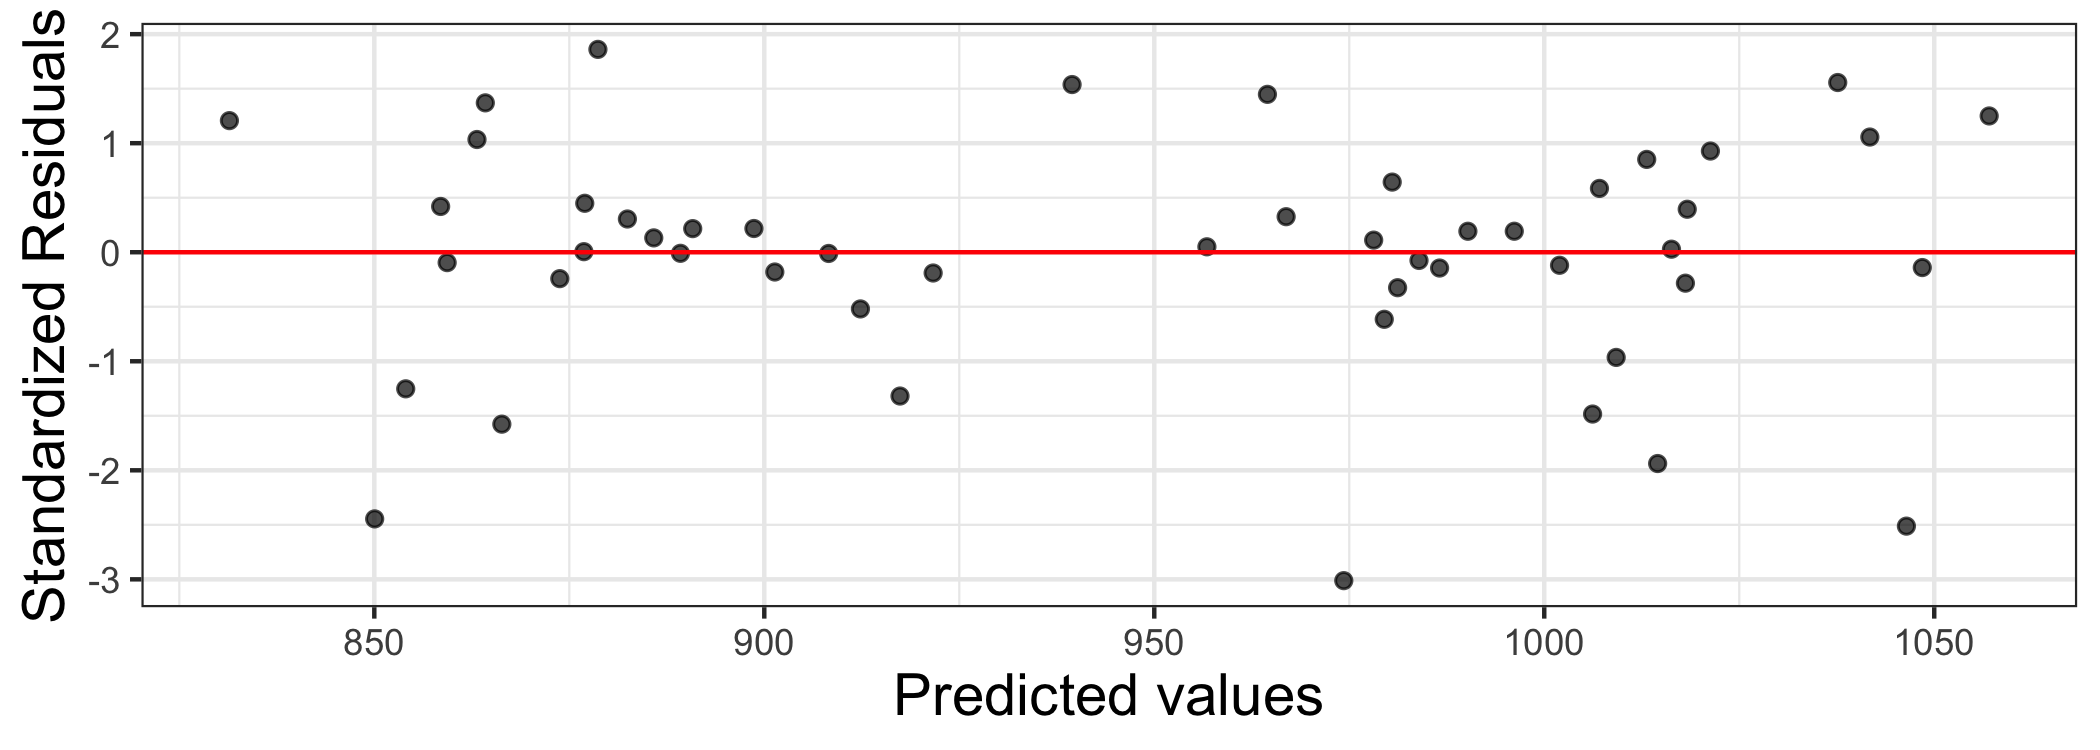
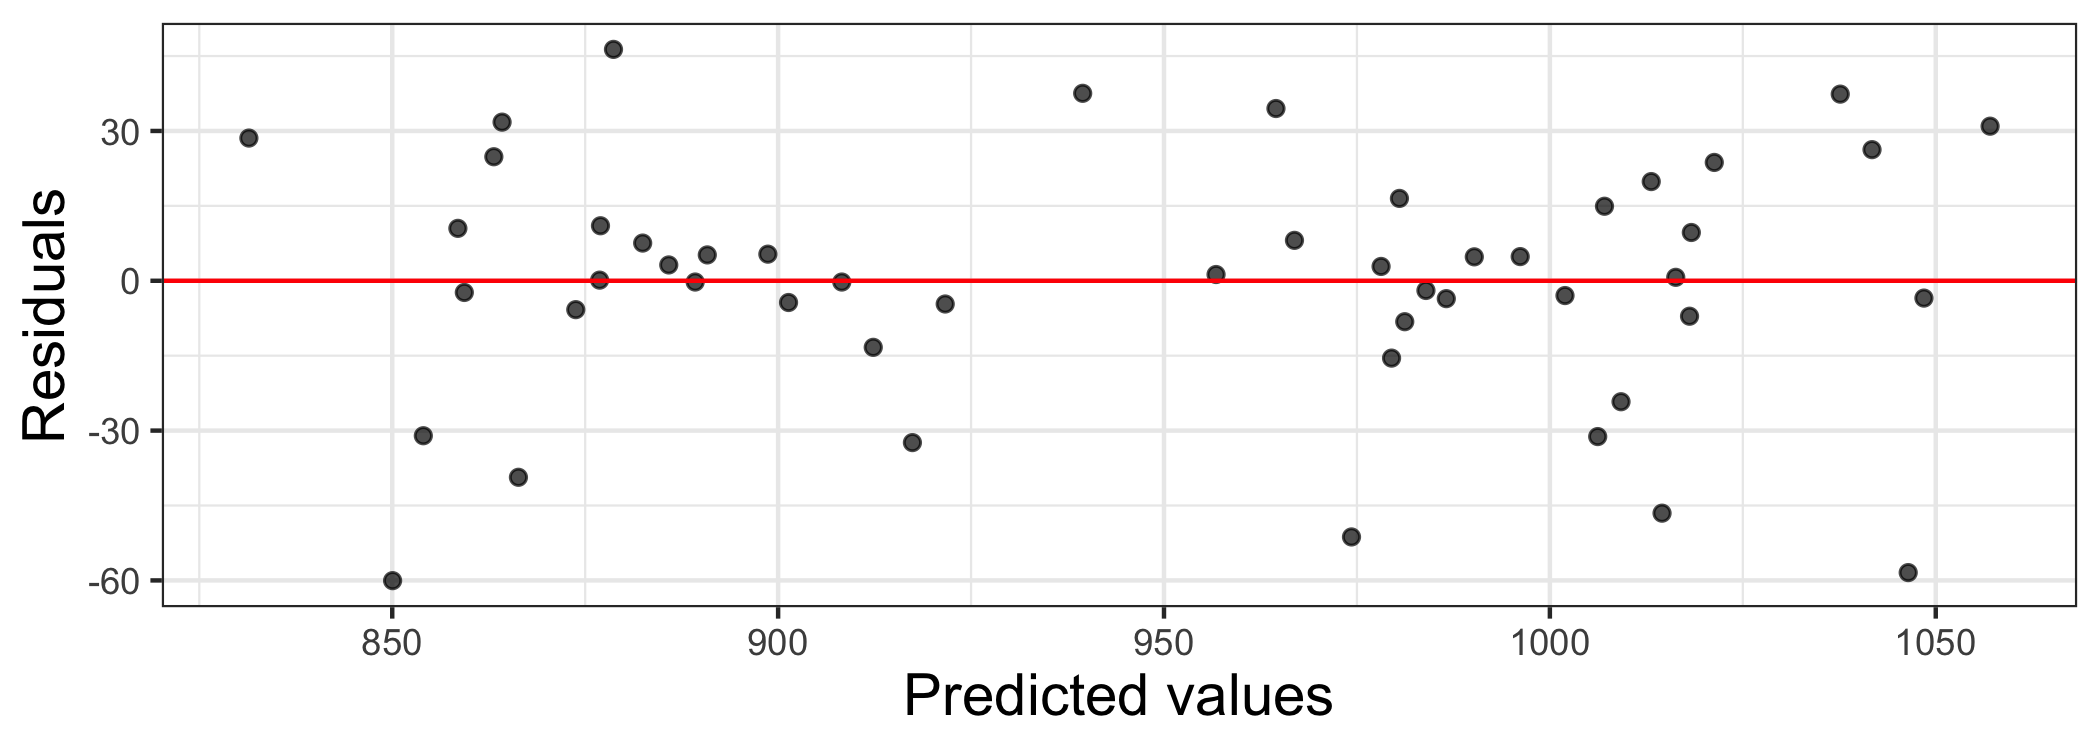
update mlr slides

diff --git a/public/slides/13-mlr-conditions.html b/public/slides/13-mlr-conditions.html
@@ -73,33 +73,31 @@ class: middle, center
 
 ## Model conditions
 
-1. .vocab[Linearity: ]There is a linear relationship between the response and **each** predictor variable
+1. .vocab[Linearity: ]There is a linear relationship between the response and predictor variables.
 
-2. .vocab[Constant Variance: ]The variability of the errors is equal for all values of the predictor variable.
+2. .vocab[Constant Variance: ]The variability about the least squares line is generally constant.
 
-3. .vocab[Normality: ]The errors follow a normal distribution.
+3. .vocab[Normality: ]The distribution of the residuals is approximately normal.
 
-4. .vocab[Independence: ]The errors are independent from each other.
-
-.alert[
-Use plots of the standardized residuals to check conditions.
-]
+4. .vocab[Independence: ]The residuals are independent from each other.
 
 ---
 
-## Standardized residuals vs. predicted values
+## Residuals vs. predicted values
 
 &lt;img src="13-mlr-conditions_files/figure-html/unnamed-chunk-6-1.png" style="display: block; margin: auto;" /&gt;
 
 ---
 
-## Checking linearity: Std. residuals vs. predicted
+## Linearity: Residuals vs. predicted
 
 &lt;img src="13-mlr-conditions_files/figure-html/unnamed-chunk-7-1.png" style="display: block; margin: auto;" /&gt;
 
 ---
 
-## Checking linearity: Std. residuals vs. each predictor
+## Linearity: Residuals vs. each predictor
+
+If there is some pattern in the plot of residuals vs. predicted values, you can look at individual plots of residuals vs. each predictor to try to identify the issue.
 
 &lt;img src="13-mlr-conditions_files/figure-html/unnamed-chunk-8-1.png" style="display: block; margin: auto;" /&gt;
 
@@ -107,11 +105,11 @@ Use plots of the standardized residuals to check conditions.
 
 ## Checking linearity 
 
-✅ The plot of standardized residuals vs. predicted shows no distinguishable pattern 
+✅ The plot of residuals vs. predicted shows no distinguishable pattern 
 
-✅ The plots of standardized residuals vs. each predictor variable show no distinguishable pattern 
+✅ The plots of residuals vs. each predictor variable are generally fine; perhaps look into `Years` more closely. 
 
-.vocab[The linearity condition is satisfied.]
+.vocab[The linearity condition is generally satisfied.] 
 
 ---
 
@@ -129,7 +127,7 @@ Use plots of the standardized residuals to check conditions.
 
 --
 
-⚠ .vocab[Normality is not satisfied]; however, `\(n&gt;30\)`, so our sample is large enough that we can relax the Normality condition and proceed.
+⚠ .vocab[Normality is not satisfied]. However, `\(n&gt;30\)`, so by the Central Limit Theorem, we can still do inference about the model parameters.
 
 ---
 
@@ -137,14 +135,16 @@ Use plots of the standardized residuals to check conditions.
 
 - We can often check the independence condition based on the context of the data and how the observations were collected.
 
-- If the data were collected in a particular order, examine a scatterplot of the standardized residuals versus order in which the data were collected. 
+- If the data were collected in a particular order, examine a scatterplot of the residuals versus order in which the data were collected. 
+
+- If there is a grouping variable lurking in the background, check the residuals based on that grouping variable.
 
 
 ---
 
 ## Checking independence
 
-Since the observations are US states, let's take a look at the standardized residuals by region. 
+Since the observations are US states, let's take a look at the residuals by region. 
 
 
 &lt;img src="13-mlr-conditions_files/figure-html/unnamed-chunk-12-1.png" style="display: block; margin: auto;" /&gt;
@@ -155,15 +155,8 @@ Since the observations are US states, let's take a look at the standardized resi
 
 ❌ The model tends to overpredict for states in the South and underpredict for states in the North Central, so the .vocab[independence condition is not satisfied].
 
-Multiple linear regression is **not** robust to violations of independence, so we need to fit a new model that includes region as a predictor to account for the systematic differences by region.
+Multiple linear regression is **not** robust to violations of independence, so before moving forward, we should try fitting a model that includes **region** to account for these differences by region. 
 
----
-
-## Next, check the model diagnostics
-
-Once you've assessed the conditions for multiple linear regression, then you can use the **model diagnostics** to detect influential points or multicollinearity.
-
-We will address model diagnostics in an upcoming lecture.
 
     </textarea>
 <style data-target="print-only">@media screen {.remark-slide-container{display:block;}.remark-slide-scaler{box-shadow:none;}}</style>

diff --git a/static/slides/13-mlr-conditions.html b/static/slides/13-mlr-conditions.html
@@ -73,33 +73,31 @@ class: middle, center
 
 ## Model conditions
 
-1. .vocab[Linearity: ]There is a linear relationship between the response and **each** predictor variable
+1. .vocab[Linearity: ]There is a linear relationship between the response and predictor variables.
 
-2. .vocab[Constant Variance: ]The variability of the errors is equal for all values of the predictor variable.
+2. .vocab[Constant Variance: ]The variability about the least squares line is generally constant.
 
-3. .vocab[Normality: ]The errors follow a normal distribution.
+3. .vocab[Normality: ]The distribution of the residuals is approximately normal.
 
-4. .vocab[Independence: ]The errors are independent from each other.
-
-.alert[
-Use plots of the standardized residuals to check conditions.
-]
+4. .vocab[Independence: ]The residuals are independent from each other.
 
 ---
 
-## Standardized residuals vs. predicted values
+## Residuals vs. predicted values
 
 &lt;img src="13-mlr-conditions_files/figure-html/unnamed-chunk-6-1.png" style="display: block; margin: auto;" /&gt;
 
 ---
 
-## Checking linearity: Std. residuals vs. predicted
+## Linearity: Residuals vs. predicted
 
 &lt;img src="13-mlr-conditions_files/figure-html/unnamed-chunk-7-1.png" style="display: block; margin: auto;" /&gt;
 
 ---
 
-## Checking linearity: Std. residuals vs. each predictor
+## Linearity: Residuals vs. each predictor
+
+If there is some pattern in the plot of residuals vs. predicted values, you can look at individual plots of residuals vs. each predictor to try to identify the issue.
 
 &lt;img src="13-mlr-conditions_files/figure-html/unnamed-chunk-8-1.png" style="display: block; margin: auto;" /&gt;
 
@@ -107,11 +105,11 @@ Use plots of the standardized residuals to check conditions.
 
 ## Checking linearity 
 
-✅ The plot of standardized residuals vs. predicted shows no distinguishable pattern 
+✅ The plot of residuals vs. predicted shows no distinguishable pattern 
 
-✅ The plots of standardized residuals vs. each predictor variable show no distinguishable pattern 
+✅ The plots of residuals vs. each predictor variable are generally fine; perhaps look into `Years` more closely. 
 
-.vocab[The linearity condition is satisfied.]
+.vocab[The linearity condition is generally satisfied.] 
 
 ---
 
@@ -129,7 +127,7 @@ Use plots of the standardized residuals to check conditions.
 
 --
 
-⚠ .vocab[Normality is not satisfied]; however, `\(n&gt;30\)`, so our sample is large enough that we can relax the Normality condition and proceed.
+⚠ .vocab[Normality is not satisfied]. However, `\(n&gt;30\)`, so by the Central Limit Theorem, we can still do inference about the model parameters.
 
 ---
 
@@ -137,14 +135,16 @@ Use plots of the standardized residuals to check conditions.
 
 - We can often check the independence condition based on the context of the data and how the observations were collected.
 
-- If the data were collected in a particular order, examine a scatterplot of the standardized residuals versus order in which the data were collected. 
+- If the data were collected in a particular order, examine a scatterplot of the residuals versus order in which the data were collected. 
+
+- If there is a grouping variable lurking in the background, check the residuals based on that grouping variable.
 
 
 ---
 
 ## Checking independence
 
-Since the observations are US states, let's take a look at the standardized residuals by region. 
+Since the observations are US states, let's take a look at the residuals by region. 
 
 
 &lt;img src="13-mlr-conditions_files/figure-html/unnamed-chunk-12-1.png" style="display: block; margin: auto;" /&gt;
@@ -155,15 +155,8 @@ Since the observations are US states, let's take a look at the standardized resi
 
 ❌ The model tends to overpredict for states in the South and underpredict for states in the North Central, so the .vocab[independence condition is not satisfied].
 
-Multiple linear regression is **not** robust to violations of independence, so we need to fit a new model that includes region as a predictor to account for the systematic differences by region.
+Multiple linear regression is **not** robust to violations of independence, so before moving forward, we should try fitting a model that includes **region** to account for these differences by region. 
 
----
-
-## Next, check the model diagnostics
-
-Once you've assessed the conditions for multiple linear regression, then you can use the **model diagnostics** to detect influential points or multicollinearity.
-
-We will address model diagnostics in an upcoming lecture.
 
     </textarea>
 <style data-target="print-only">@media screen {.remark-slide-container{display:block;}.remark-slide-scaler{box-shadow:none;}}</style>
